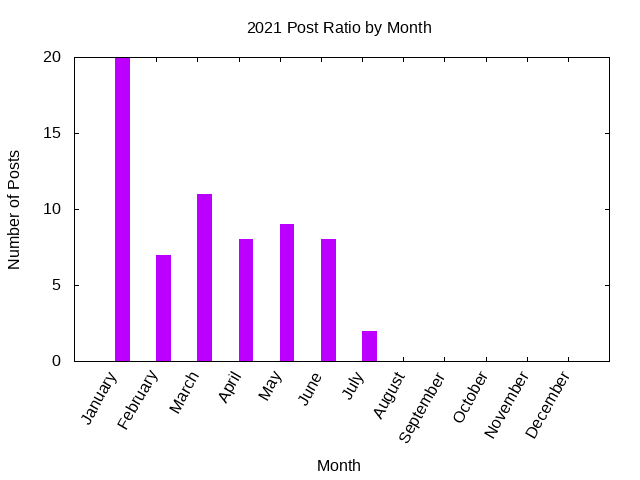
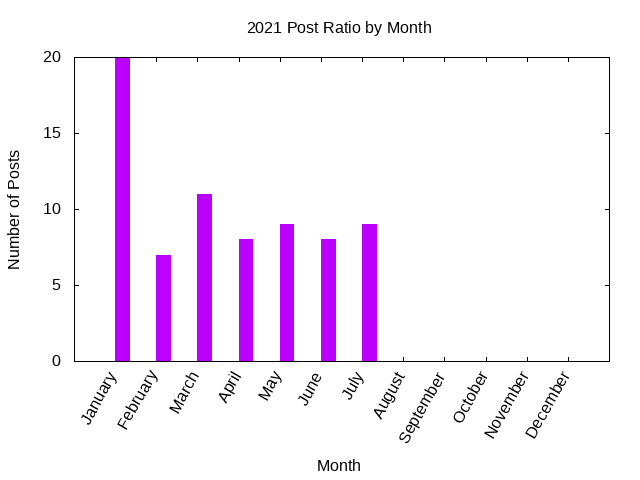
Stats update

Changed region(s): [[0.5625, 0.4688, 0.5938, 0.6875]]

diff --git a/_includes/stats/2021.md b/_includes/stats/2021.md
@@ -1,36 +1,36 @@
 <a name="2021" />
 ## 2021 (work in progress)
 
-**65 total posts** have been written on 2021.
+**72 total posts** have been written on 2021.
 There have been *26 different tags* used, the most
 popular being (sorted by number of posts):
  
-- *raku* (28 posts)  
-- *postgresql* (24 posts)  
-- *planet-postgresql-org* (22 posts)  
+- *raku* (30 posts)  
+- *postgresql* (27 posts)  
+- *planet-postgresql-org* (25 posts)  
 - *perl-weekly-challenge* (20 posts)  
 - *freebsd* (7 posts)  
+- *perlweeklychallenge* (6 posts)  
+- *linux* (6 posts)  
 - *oracle* (5 posts)  
-- *linux* (4 posts)  
-- *perlweeklychallenge* (4 posts)  
-- *emacs* (3 posts)  
+- *emacs* (5 posts)  
 - *java* (2 posts)  
 - *jekyll* (2 posts)  
 - *firefox* (2 posts)  
-- *projectile* (1 posts)  
 - *free-software-foundation* (1 posts)  
-- *opensource* (1 posts)  
-- *sqldeveloper* (1 posts)  
-- *python* (1 posts)  
-- *ruby* (1 posts)  
-- *hardware* (1 posts)  
+- *bash* (1 posts)  
 - *programming* (1 posts)  
-- *pgbackrest* (1 posts)  
+- *ruby* (1 posts)  
+- *projectile* (1 posts)  
 - *php* (1 posts)  
-- *spacemacs* (1 posts)  
+- *hardware* (1 posts)  
+- *opensource* (1 posts)  
+- *python* (1 posts)  
 - *perl* (1 posts)  
 - *eclipse* (1 posts)  
-- *bash* (1 posts).<br/>
+- *sqldeveloper* (1 posts)  
+- *pgbackrest* (1 posts)  
+- *spacemacs* (1 posts).<br/>
 <br/>
 The following is the overall 2021 post ratio by month:
 <br/>
@@ -49,7 +49,7 @@ The following is the overall 2021 post ratio by tag (showing max 30 tags):
 
 <div align="right">
 <small>
-Last generated on 2021-07-07 at 12:53
+Last generated on 2021-07-22 at 17:57
 </small>
 </div>
 
